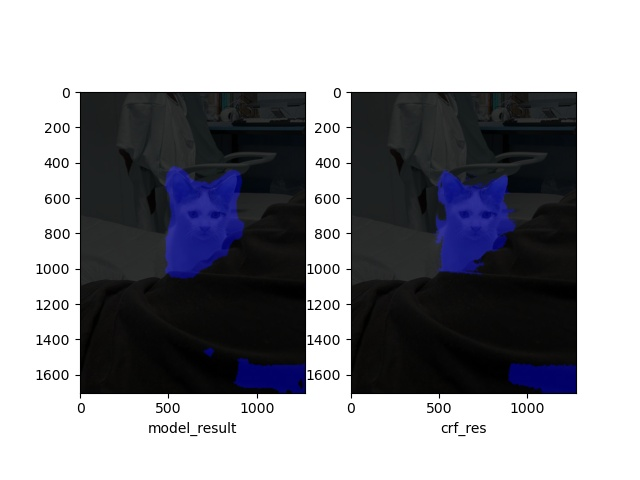
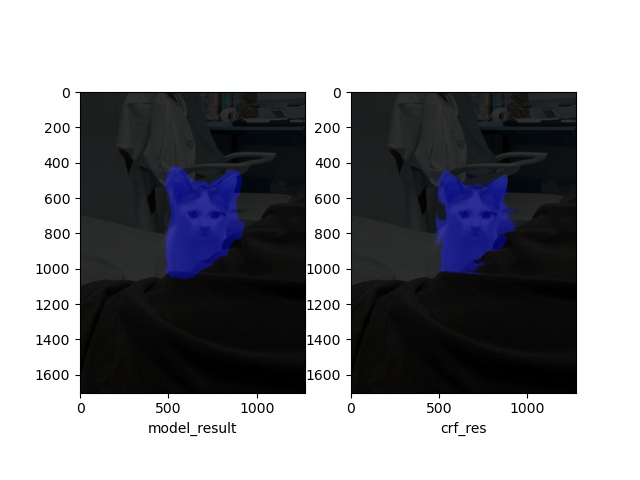
fix post_sdk param

Changed region(s): [[0.3438, 0.75, 0.5, 0.8438], [0.7812, 0.75, 0.9062, 0.8438], [0.3125, 0.7188, 0.3438, 0.75]]

diff --git a/sdk.py b/sdk.py
@@ -69,13 +69,13 @@ if __name__ == "__main__":
     img_path = os.path.join(root_path, 'fugui_data')
 
     defcets = ['bg', 'cat']
-    Confidence = [0.5] * len(defcets)
-    num_thres = [0, 0]   
+    Confidence = [0.75] * len(defcets)
+    num_thres = [120, 120]   
     # 模型的mean和std
     mean_ = [123.675, 116.28, 103.53]
     std_ = [58.395, 57.12, 57.375]
     # 输入模型的尺寸
-    size = [300,300]
+    size = [300, 300]
 
     test_paths = [os.path.join(img_path, a) for a in os.listdir(img_path) if '.JPG' in a]
     res_dir = os.path.join(root_path, 'seg_res')
